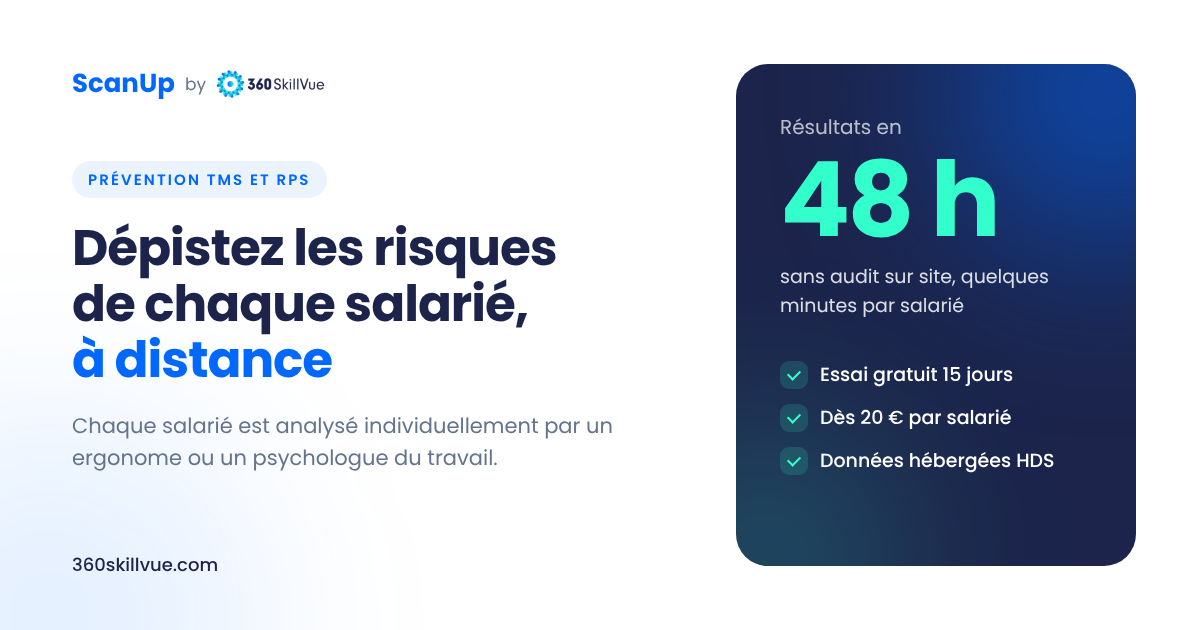
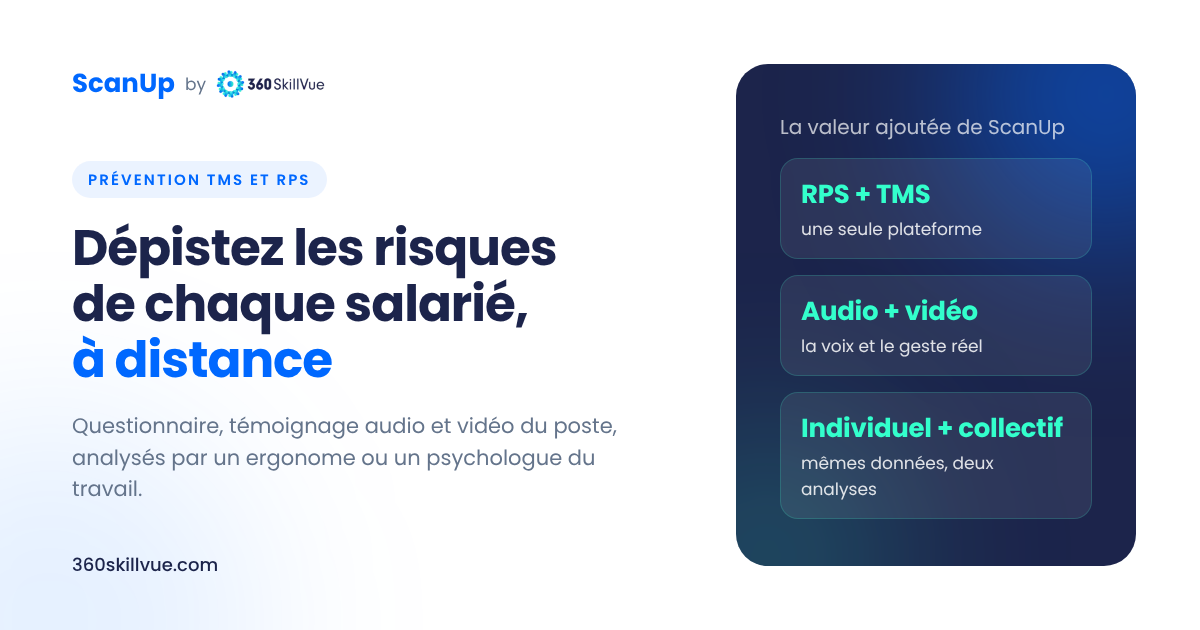
feat(site): les trois atouts de ScanUp mis en avant
Remplace la carte « Audio et vidéo » de l'accueil par un bloc « La valeur
ajoutée de ScanUp » : RPS et TMS sur une seule plateforme, audio et vidéo,
données qui servent à l'analyse individuelle et à l'analyse collective.
Le haut de la page Entreprises cite la cartographie collective, et
l'image d'aperçu par défaut reprend ces trois atouts. Six langues.

Claude-Session: https://claude.ai/code/session_01ER5NGP6MqhP7Scc95TJoAM

diff --git a/src/components/AvantagesPresentiel.tsx b/src/components/AvantagesPresentiel.tsx
@@ -1,6 +1,6 @@
 import React from 'react';
 import { motion } from 'motion/react';
-import { ArrowRight, Mic, Video } from 'lucide-react';
+import { ArrowRight, Mic, Video, Layers, Users, BarChart3 } from 'lucide-react';
 import { Link } from '../i18n/Link';
 import { useLanguage, type Lang } from '../i18n';
 import { EssaiScanupBouton } from './EssaiScanup';
@@ -19,7 +19,8 @@ type Texts = {
   cheapTag: string; cheapFigure: string; cheapText: string;
   qualityTag: string; tmsLabel: string; tmsText: string; rpsLabel: string; rpsText: string;
   inclusiveTag: string; inclusiveFigure: string; inclusiveText: string;
-  justeTag: string; justeFigure: string; justeText: string; audioLabel: string; audioText: string; videoLabel: string; videoText: string;
+  valueTag: string; valueTitle: string;
+  value1Title: string; value1Text: string; value2Title: string; value2Text: string; value3Title: string; value3Text: string;
   cta: string;
 };
 
@@ -38,10 +39,10 @@ const TEXTS: Record<Lang, Texts> = {
     rpsLabel: 'RPS :', rpsText: 'les personnes à risque repérées, seules reçues en entretien individuel.',
     inclusiveTag: 'Plus inclusif', inclusiveFigure: 'Chacun participe',
     inclusiveText: "y compris les collaborateurs isolés, en horaires décalés ou sur des sites éloignés, où qu'ils soient.",
-    justeTag: 'Plus juste', justeFigure: 'Audio et vidéo',
-    justeText: "L'expert entend le salarié et voit son poste réel, là où un questionnaire seul s'arrête aux cases cochées.",
-    audioLabel: 'RPS :', audioText: 'la voix du salarié, son ressenti dans ses propres mots.',
-    videoLabel: 'TMS :', videoText: 'le geste réel, filmé à son poste de travail.',
+    valueTag: 'La valeur ajoutée de ScanUp', valueTitle: 'Une seule plateforme, des données qui servent deux fois',
+    value1Title: 'RPS et TMS au même endroit', value1Text: "Un seul parcours pour le salarié, un seul outil pour l'expert et pour l'entreprise.",
+    value2Title: 'Audio et vidéo', value2Text: "L'expert entend le salarié et voit son poste réel, là où un questionnaire seul s'arrête aux cases cochées.",
+    value3Title: 'Individuel et collectif', value3Text: "Les mêmes données servent à l'analyse de chaque salarié et à la cartographie collective des risques.",
     cta: 'Demander à tester',
   },
   en: {
@@ -58,10 +59,10 @@ const TEXTS: Record<Lang, Texts> = {
     rpsLabel: 'Psychosocial risks:', rpsText: 'people at risk are identified, and only they are seen in individual interviews.',
     inclusiveTag: 'More inclusive', inclusiveFigure: 'Everyone takes part',
     inclusiveText: 'including isolated employees, shift workers and remote sites, wherever they are.',
-    justeTag: 'More accurate', justeFigure: 'Audio and video',
-    justeText: 'The expert hears the employee and sees their real workstation, where a questionnaire alone stops at ticked boxes.',
-    audioLabel: 'Psychosocial risks:', audioText: "the employee's own voice, describing how they feel in their own words.",
-    videoLabel: 'MSDs:', videoText: 'the real movement, filmed at their workstation.',
+    valueTag: "ScanUp's added value", valueTitle: 'One platform, data that serves twice',
+    value1Title: 'Psychosocial risks and MSDs in one place', value1Text: 'One journey for the employee, one tool for the expert and the company.',
+    value2Title: 'Audio and video', value2Text: 'The expert hears the employee and sees their real workstation, where a questionnaire alone stops at ticked boxes.',
+    value3Title: 'Individual and collective', value3Text: "The same data feeds each employee's individual analysis and the collective risk map.",
     cta: 'Request a trial',
   },
   de: {
@@ -78,10 +79,10 @@ const TEXTS: Record<Lang, Texts> = {
     rpsLabel: 'Psychosoziale Risiken:', rpsText: 'gefährdete Personen werden erkannt und nur sie zum Einzelgespräch eingeladen.',
     inclusiveTag: 'Inklusiver', inclusiveFigure: 'Alle machen mit',
     inclusiveText: 'auch Mitarbeitende an abgelegenen Standorten, im Schichtbetrieb oder allein arbeitend.',
-    justeTag: 'Treffender', justeFigure: 'Audio und Video',
-    justeText: 'Die Fachperson hört die Mitarbeitenden und sieht ihren echten Arbeitsplatz, wo ein Fragebogen allein bei angekreuzten Kästchen stehen bleibt.',
-    audioLabel: 'Psychosoziale Risiken:', audioText: 'die Stimme der Mitarbeitenden, ihr Befinden in eigenen Worten.',
-    videoLabel: 'MSE:', videoText: 'die echte Bewegung, am Arbeitsplatz gefilmt.',
+    valueTag: 'Der Mehrwert von ScanUp', valueTitle: 'Eine Plattform, Daten mit doppeltem Nutzen',
+    value1Title: 'Psychosoziale Risiken und MSE an einem Ort', value1Text: 'Ein Ablauf für die Mitarbeitenden, ein Werkzeug für Fachperson und Unternehmen.',
+    value2Title: 'Audio und Video', value2Text: 'Die Fachperson hört die Mitarbeitenden und sieht ihren echten Arbeitsplatz, wo ein Fragebogen allein bei angekreuzten Kästchen stehen bleibt.',
+    value3Title: 'Individuell und kollektiv', value3Text: 'Dieselben Daten dienen der Analyse jeder einzelnen Person und der kollektiven Risikokartierung.',
     cta: 'Test anfragen',
   },
   it: {
@@ -98,10 +99,10 @@ const TEXTS: Record<Lang, Texts> = {
     rpsLabel: 'Rischi psicosociali:', rpsText: 'le persone a rischio vengono individuate e solo loro ricevute in colloquio individuale.',
     inclusiveTag: 'Più inclusivo', inclusiveFigure: 'Tutti partecipano',
     inclusiveText: 'anche i collaboratori isolati, a turni o in sedi lontane, ovunque si trovino.',
-    justeTag: 'Più giusto', justeFigure: 'Audio e video',
-    justeText: "L'esperto ascolta il collaboratore e vede la sua postazione reale, dove un questionario da solo si ferma alle caselle spuntate.",
-    audioLabel: 'Rischi psicosociali:', audioText: 'la voce del collaboratore, come si sente con parole sue.',
-    videoLabel: 'DMS:', videoText: 'il gesto reale, filmato sulla sua postazione di lavoro.',
+    valueTag: 'Il valore aggiunto di ScanUp', valueTitle: "Un'unica piattaforma, dati che servono due volte",
+    value1Title: 'Rischi psicosociali e DMS in un solo posto', value1Text: "Un solo percorso per il collaboratore, un solo strumento per l'esperto e per l'azienda.",
+    value2Title: 'Audio e video', value2Text: "L'esperto ascolta il collaboratore e vede la sua postazione reale, dove un questionario da solo si ferma alle caselle spuntate.",
+    value3Title: 'Individuale e collettivo', value3Text: "Gli stessi dati servono all'analisi di ogni collaboratore e alla mappatura collettiva dei rischi.",
     cta: 'Richiedi una prova',
   },
   es: {
@@ -118,10 +119,10 @@ const TEXTS: Record<Lang, Texts> = {
     rpsLabel: 'Riesgos psicosociales:', rpsText: 'se detecta a las personas en riesgo y solo ellas pasan a entrevista individual.',
     inclusiveTag: 'Más inclusivo', inclusiveFigure: 'Todos participan',
     inclusiveText: 'incluidos los empleados aislados, a turnos o en centros alejados, estén donde estén.',
-    justeTag: 'Más justo', justeFigure: 'Audio y vídeo',
-    justeText: 'El experto escucha al empleado y ve su puesto real, donde un cuestionario por sí solo se queda en las casillas marcadas.',
-    audioLabel: 'Riesgos psicosociales:', audioText: 'la voz del empleado, cómo se siente con sus propias palabras.',
-    videoLabel: 'TME:', videoText: 'el gesto real, grabado en su puesto de trabajo.',
+    valueTag: 'El valor añadido de ScanUp', valueTitle: 'Una sola plataforma, datos que sirven dos veces',
+    value1Title: 'Riesgos psicosociales y TME en un mismo lugar', value1Text: 'Un solo recorrido para el empleado, una sola herramienta para el experto y la empresa.',
+    value2Title: 'Audio y vídeo', value2Text: 'El experto escucha al empleado y ve su puesto real, donde un cuestionario por sí solo se queda en las casillas marcadas.',
+    value3Title: 'Individual y colectivo', value3Text: 'Los mismos datos sirven para el análisis de cada empleado y para el mapa colectivo de riesgos.',
     cta: 'Solicitar una prueba',
   },
   pt: {
@@ -138,10 +139,10 @@ const TEXTS: Record<Lang, Texts> = {
     rpsLabel: 'Riscos psicossociais:', rpsText: 'as pessoas em risco são identificadas e só elas passam a entrevista individual.',
     inclusiveTag: 'Mais inclusivo', inclusiveFigure: 'Todos participam',
     inclusiveText: 'incluindo colaboradores isolados, por turnos ou em locais afastados, onde quer que estejam.',
-    justeTag: 'Mais justo', justeFigure: 'Áudio e vídeo',
-    justeText: 'O especialista ouve o colaborador e vê o seu posto real, onde um questionário sozinho fica pelas caixas assinaladas.',
-    audioLabel: 'Riscos psicossociais:', audioText: 'a voz do colaborador, como se sente nas suas próprias palavras.',
-    videoLabel: 'LMERT:', videoText: 'o gesto real, filmado no seu posto de trabalho.',
+    valueTag: 'O valor acrescentado da ScanUp', valueTitle: 'Uma só plataforma, dados que servem duas vezes',
+    value1Title: 'Riscos psicossociais e LMERT no mesmo sítio', value1Text: 'Um só percurso para o colaborador, uma só ferramenta para o especialista e para a empresa.',
+    value2Title: 'Áudio e vídeo', value2Text: 'O especialista ouve o colaborador e vê o seu posto real, onde um questionário sozinho fica pelas caixas assinaladas.',
+    value3Title: 'Individual e coletivo', value3Text: 'Os mesmos dados servem a análise de cada colaborador e o mapa coletivo de riscos.',
     cta: 'Pedir um teste',
   },
 };
@@ -218,21 +219,22 @@ export default function AvantagesPresentiel({ hero = false }: { hero?: boolean }
           <FadeIn delay={0} className="sm:col-span-2">
             <div className="relative overflow-hidden rounded-[20px] p-7 md:p-9 text-white bg-gradient-to-br from-scanup-blue to-scanup-navy">
               <div aria-hidden="true" className="absolute -right-16 -top-16 w-64 h-64 rounded-full bg-scanup-turquoise/25 blur-3xl" />
-              <div className="relative grid md:grid-cols-[1.1fr_1fr] gap-6 md:gap-10 items-center">
-                <div className="flex flex-col gap-4">
-                  <span className="self-start rounded-full px-4 py-1.5 text-[13px] font-semibold bg-scanup-turquoise text-scanup-navy">{t.justeTag}</span>
-                  <p className="text-[34px] md:text-[42px] font-bold leading-[1.1] tracking-tight">{t.justeFigure}</p>
-                  <p className="text-[15px] md:text-[16px] leading-relaxed text-white/90">{t.justeText}</p>
-                </div>
-                <div className="grid gap-3">
-                  {[{ Icon: Mic, label: t.audioLabel, text: t.audioText }, { Icon: Video, label: t.videoLabel, text: t.videoText }].map(({ Icon, label, text }) => (
-                    <div key={label} className="flex items-start gap-4 rounded-2xl bg-white/10 p-4 md:p-5">
-                      <span className="w-11 h-11 rounded-xl bg-scanup-turquoise/15 text-scanup-turquoise flex items-center justify-center flex-shrink-0">
-                        <Icon size={20} strokeWidth={1.8} />
+              <div className="relative">
+                <span className="inline-block rounded-full px-4 py-1.5 text-[13px] font-semibold bg-scanup-turquoise text-scanup-navy">{t.valueTag}</span>
+                <p className="mt-4 text-[28px] md:text-[36px] font-bold leading-[1.15] tracking-tight text-balance">{t.valueTitle}</p>
+                <div className="mt-7 grid md:grid-cols-3 gap-4">
+                  {[
+                    { Icon: Layers, title: t.value1Title, text: t.value1Text },
+                    { Icon: Mic, Icon2: Video, title: t.value2Title, text: t.value2Text },
+                    { Icon: Users, Icon2: BarChart3, title: t.value3Title, text: t.value3Text },
+                  ].map(({ Icon, Icon2, title, text }) => (
+                    <div key={title} className="flex flex-col gap-3 rounded-2xl bg-white/10 p-5">
+                      <span className="flex gap-2">
+                        <span className="w-11 h-11 rounded-xl bg-scanup-turquoise/15 text-scanup-turquoise flex items-center justify-center"><Icon size={20} strokeWidth={1.8} /></span>
+                        {Icon2 && <span className="w-11 h-11 rounded-xl bg-scanup-turquoise/15 text-scanup-turquoise flex items-center justify-center"><Icon2 size={20} strokeWidth={1.8} /></span>}
                       </span>
-                      <p className="text-[15px] md:text-[16px] leading-relaxed text-white/90">
-                        <span className="font-semibold text-white">{label}</span> {text}
-                      </p>
+                      <p className="text-[18px] font-semibold leading-snug text-white">{title}</p>
+                      <p className="text-[15px] leading-relaxed text-white/85">{text}</p>
                     </div>
                   ))}
                 </div>

diff --git a/index.html b/index.html
@@ -40,7 +40,7 @@
     <meta property="og:url" content="https://360skillvue.com/" />
     <meta property="og:title" content="ScanUp : prévention TMS &amp; RPS, certification santé" />
     <meta property="og:description" content="Dépistez les risques TMS et RPS de vos équipes et pilotez la certification périodique de vos professionnels de santé. Essai gratuit 15 jours, sans carte bancaire." />
-    <meta property="og:image" content="https://360skillvue.com/og-accueil.png" />
+    <meta property="og:image" content="https://360skillvue.com/og-scanup.png" />
     <meta property="og:image:width" content="1200" />
     <meta property="og:image:height" content="630" />
     <meta property="og:site_name" content="360SkillVue" />
@@ -50,7 +50,7 @@
     <meta name="twitter:card" content="summary_large_image" />
     <meta name="twitter:title" content="ScanUp : prévention TMS &amp; RPS, certification santé" />
     <meta name="twitter:description" content="Dépistez les risques TMS et RPS de vos équipes et pilotez la certification périodique de vos professionnels de santé." />
-    <meta name="twitter:image" content="https://360skillvue.com/og-accueil.png" />
+    <meta name="twitter:image" content="https://360skillvue.com/og-scanup.png" />
 
     <!-- Organization Schema -->
     <script type="application/ld+json">

diff --git a/src/i18n/pt.ts b/src/i18n/pt.ts
@@ -418,7 +418,7 @@ export const pt = {
     heroTitle: 'Rastreie os seus riscos',
     heroTitleHighlight: 'LME & RPS',
     heroTitleEnd: 'sem auditoria, em 48 h.',
-    heroSubtitle: 'Cada colaborador é analisado individualmente por um psicólogo do trabalho ou por um ergonomista certificado, a partir do seu testemunho áudio e do vídeo do seu posto. Se necessário, um estudo completo da situação de trabalho à distância, musculoesquelético ou psicossocial, com relatório individual. A partir de 20 € por colaborador.',
+    heroSubtitle: 'Cada colaborador é analisado individualmente por um psicólogo do trabalho ou por um ergonomista certificado, a partir do seu testemunho áudio e do vídeo do seu posto, e os mesmos dados alimentam o mapa coletivo de riscos. Se necessário, um estudo completo da situação de trabalho à distância, musculoesquelético ou psicossocial, com relatório individual. A partir de 20 € por colaborador.',
     heroCtaPrimary: 'Simular o meu custo gratuitamente (em francês)',
     heroCtaSecondary: 'Ver uma demonstração',
     stats: [

diff --git a/src/i18n/it.ts b/src/i18n/it.ts
@@ -418,7 +418,7 @@ export const it = {
     heroTitle: 'Screening dei rischi',
     heroTitleHighlight: 'DMS & RPS',
     heroTitleEnd: 'senza audit in 48 ore.',
-    heroSubtitle: 'Ogni collaboratore è analizzato individualmente da uno psicologo del lavoro o da un ergonomo certificato, a partire dalla sua testimonianza audio e dal video della sua postazione. Se necessario, studio completo della situazione di lavoro a distanza, muscoloscheletrico o psicosociale, con relazione individuale. A partire da 20 € per collaboratore.',
+    heroSubtitle: 'Ogni collaboratore è analizzato individualmente da uno psicologo del lavoro o da un ergonomo certificato, a partire dalla sua testimonianza audio e dal video della sua postazione, e gli stessi dati alimentano la mappatura collettiva. Se necessario, studio completo della situazione di lavoro a distanza, muscoloscheletrico o psicosociale, con relazione individuale. A partire da 20 € per collaboratore.',
     heroCtaPrimary: 'Simula il mio costo gratis (in francese)',
     heroCtaSecondary: 'Vedi una demo',
     stats: [

diff --git a/src/i18n/de.ts b/src/i18n/de.ts
@@ -418,7 +418,7 @@ export const de = {
     heroTitle: 'Erkennen Sie Ihre',
     heroTitleHighlight: 'MSE- & PSR-Risiken',
     heroTitleEnd: 'ohne Audit in 48 Stunden.',
-    heroSubtitle: 'Jede Person wird einzeln von einem Arbeitspsychologen oder einer zertifizierten Ergonomin ausgewertet, anhand ihres Audio-Statements und eines Videos ihres Arbeitsplatzes. Bei Bedarf: vollständige Analyse der Arbeitssituation aus der Ferne, muskuloskelettal oder psychosozial, mit individuellem Bericht. Ab 20 € pro Mitarbeitendem.',
+    heroSubtitle: 'Jede Person wird einzeln von einem Arbeitspsychologen oder einer zertifizierten Ergonomin ausgewertet, anhand ihres Audio-Statements und eines Videos ihres Arbeitsplatzes; dieselben Daten fliessen in die kollektive Risikokartierung ein. Bei Bedarf: vollständige Analyse der Arbeitssituation aus der Ferne, muskuloskelettal oder psychosozial, mit individuellem Bericht. Ab 20 € pro Mitarbeitendem.',
     heroCtaPrimary: 'Kosten kostenlos simulieren (auf Französisch)',
     heroCtaSecondary: 'Demo ansehen',
     stats: [

diff --git a/src/i18n/es.ts b/src/i18n/es.ts
@@ -418,7 +418,7 @@ export const es = {
     heroTitle: 'Detecte sus riesgos',
     heroTitleHighlight: 'de TME y RPS',
     heroTitleEnd: 'sin auditoría, en 48 h.',
-    heroSubtitle: 'Cada empleado es analizado individualmente por un psicólogo del trabajo o un ergónomo acreditado, a partir de su testimonio de audio y del vídeo de su puesto. Si es necesario, un estudio completo de la situación de trabajo a distancia, musculoesquelético o psicosocial, con informe individual. Desde 20 € por empleado.',
+    heroSubtitle: 'Cada empleado es analizado individualmente por un psicólogo del trabajo o un ergónomo acreditado, a partir de su testimonio de audio y del vídeo de su puesto, y los mismos datos alimentan el mapa colectivo de riesgos. Si es necesario, un estudio completo de la situación de trabajo a distancia, musculoesquelético o psicosocial, con informe individual. Desde 20 € por empleado.',
     heroCtaPrimary: 'Calcular mi coste gratis (en francés)',
     heroCtaSecondary: 'Ver una demo',
     stats: [

diff --git a/src/i18n/en.ts b/src/i18n/en.ts
@@ -418,7 +418,7 @@ export const en = {
     heroTitle: 'Screen your',
     heroTitleHighlight: 'MSD & PSR',
     heroTitleEnd: 'risks without an audit in 48h.',
-    heroSubtitle: 'Every employee is reviewed individually by an occupational psychologist or a certified ergonomist, based on their audio testimony and a video of their workstation. Where needed, a full remote work situation assessment, musculoskeletal or psychosocial, with an individual report. From €20 per employee.',
+    heroSubtitle: 'Every employee is reviewed individually by an occupational psychologist or a certified ergonomist, based on their audio testimony and a video of their workstation, and the same data feeds the collective risk map. Where needed, a full remote work situation assessment, musculoskeletal or psychosocial, with an individual report. From €20 per employee.',
     heroCtaPrimary: 'Simulate my cost for free (in French)',
     heroCtaSecondary: 'See a demo',
     stats: [

diff --git a/src/i18n/fr.ts b/src/i18n/fr.ts
@@ -424,7 +424,7 @@ export const fr = {
     heroTitle: 'Dépistez vos risques',
     heroTitleHighlight: 'TMS & RPS',
     heroTitleEnd: 'sans audit en 48h.',
-    heroSubtitle: 'Chaque salarié est analysé individuellement par un psychologue du travail ou un ergonome, à partir de son témoignage audio et de la vidéo de son poste. Si besoin, étude de situation de travail complète à distance, TMS ou RPS, avec rapport individuel. Dès 20 € par collaborateur.',
+    heroSubtitle: 'Chaque salarié est analysé individuellement par un psychologue du travail ou un ergonome, à partir de son témoignage audio et de la vidéo de son poste, et les mêmes données alimentent la cartographie collective. Si besoin, étude de situation de travail complète à distance, TMS ou RPS, avec rapport individuel. Dès 20 € par collaborateur.',
     heroCtaPrimary: 'Simuler mon coût gratuitement',
     heroCtaSecondary: 'Voir une démo',
     stats: [

diff --git a/src/components/PageMeta.tsx b/src/components/PageMeta.tsx
@@ -17,7 +17,7 @@ interface Props {
 }
 
 const BASE = 'https://360skillvue.com';
-const DEFAULT_OG_IMAGE = `${BASE}/og-accueil.png`;
+const DEFAULT_OG_IMAGE = `${BASE}/og-scanup.png`;
 
 export default function PageMeta({ title, description, path, ogImage, schema, noindexTranslations = false }: Props) {
   const { lang } = useLanguage();
